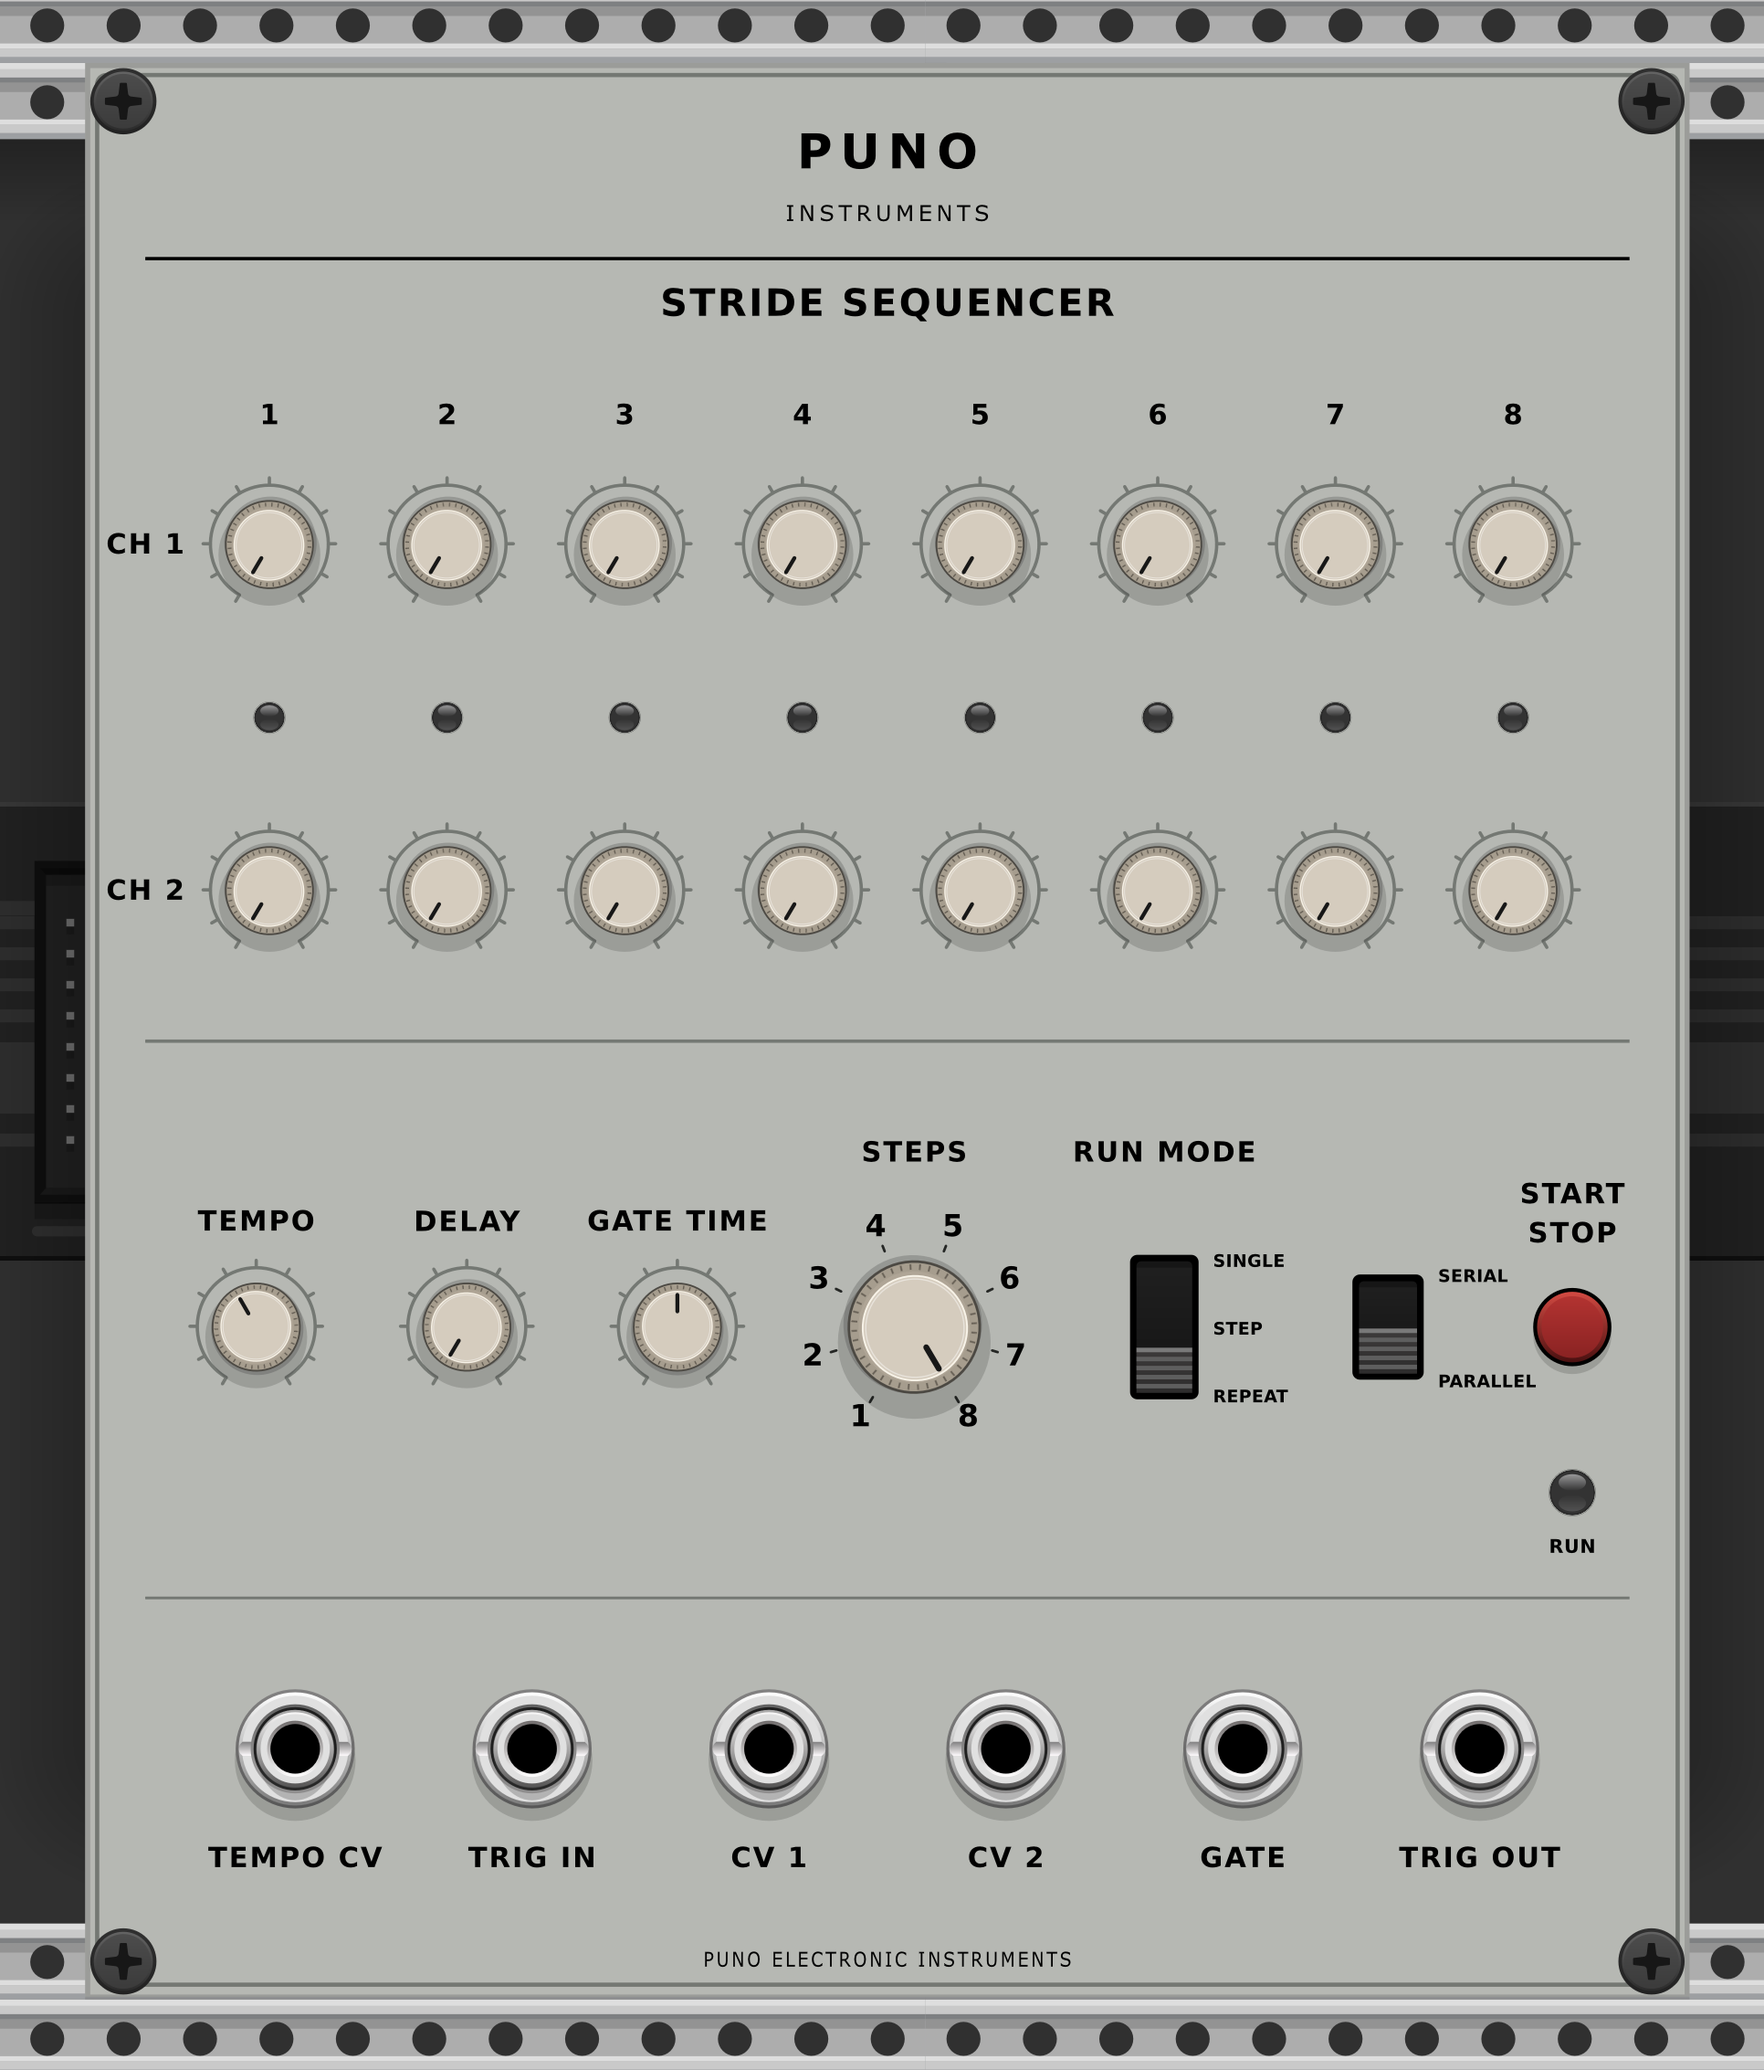
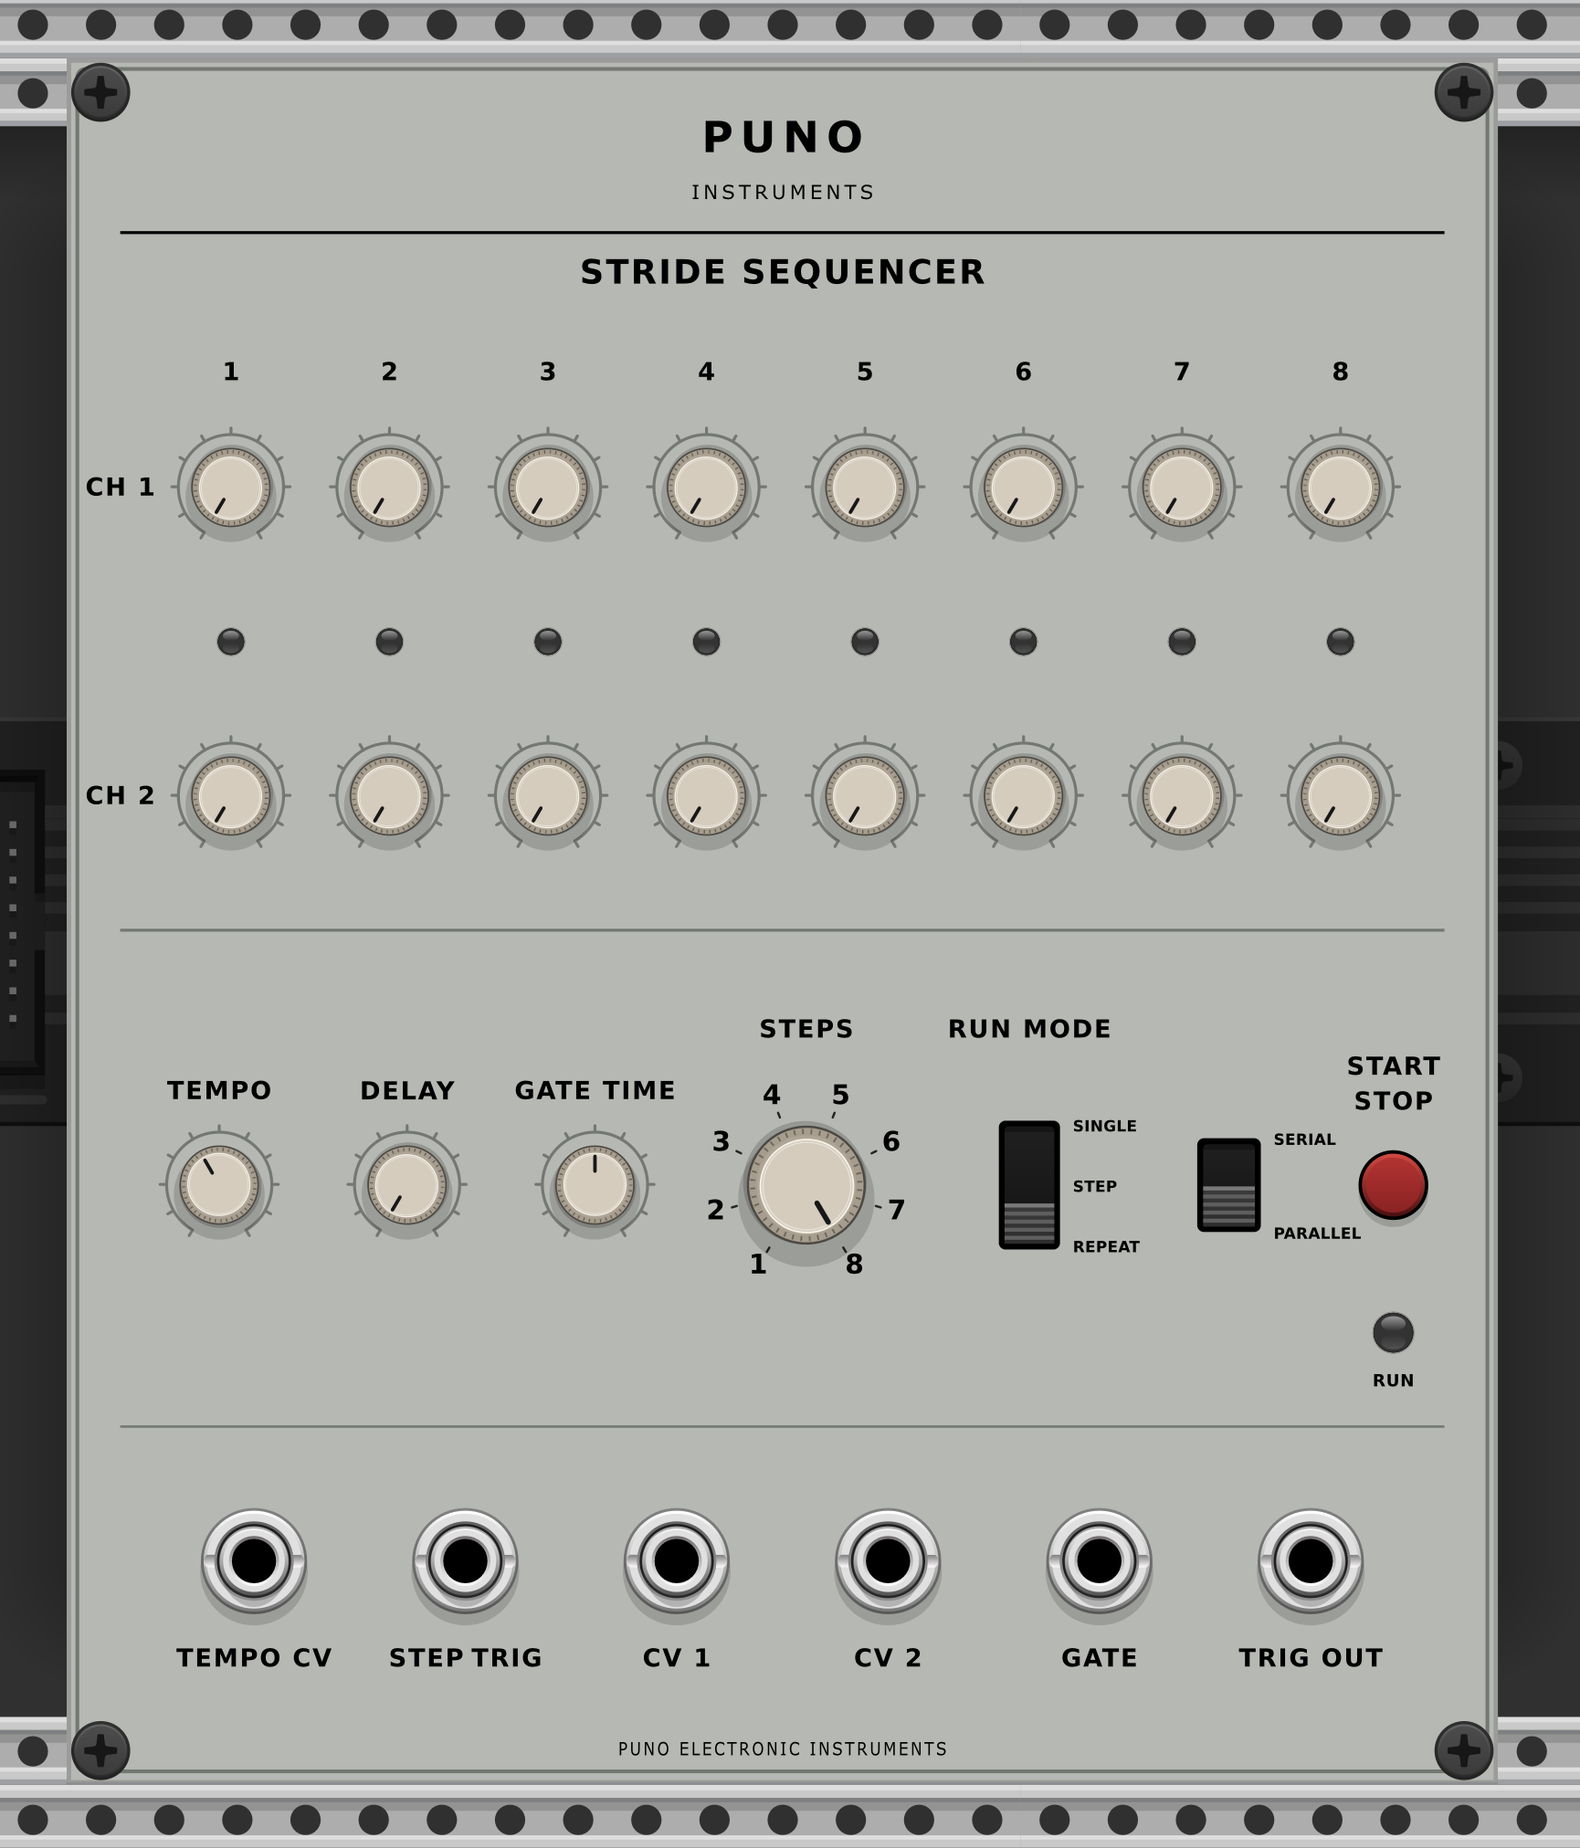
Update STRIDE sequencer manual for 2.0.1

diff --git a/index.html b/index.html
@@ -276,10 +276,10 @@
       <div class="module-layout">
         <div>
           <p>21 HP. Two-channel, eight-step sequencer with parallel and series configurations and a horizontal panel.</p>
-          <p>Repeat advances on the internal clock and loops at the end of the sequence. Step advances on edges at the external trigger input only while the sequencer is running. Single uses the internal clock and stops at the end of the sequence. Tempo sets the internal clock rate, which can be modulated at the Tempo CV input. Start/Stop stops a running sequence and starts a stopped sequence from the first step. Changing Repeat/Step/Single or Parallel/Series returns to the first step and resets the clock and end-of-sequence trigger while preserving the running or stopped state. Step values can be adjusted while the sequencer runs. Channel configuration, DELAY and TRIG OUT are described below.</p>
+          <p>Repeat advances on the internal clock and returns to the first step at the end of the sequence. In Step mode, after pressing START, each pulse at STEP TRIG advances the sequencer by one step. Single advances on the internal clock and stops at the end of the sequence. Repeat and Single use the internal clock even with a cable connected to STEP TRIG. On earlier panels, this input is labeled TRIG IN. Tempo sets the internal clock rate, which can be modulated at the Tempo CV input. Start/Stop stops a running sequence and starts a stopped sequence from the first step. Changing Repeat/Step/Single or Parallel/Series returns to the first step and resets the clock and end-of-sequence trigger while preserving the running or stopped state. Step values can be adjusted while the sequencer runs. Channel configuration, DELAY and TRIG OUT are described below.</p>
         </div>
         <img class="module-panel" src="assets/screenshots/stride-sequencer.png"
-             width="425" height="498" alt="STRIDE SEQUENCER module screenshot">
+             width="425" height="497" alt="STRIDE SEQUENCER module screenshot">
       </div>
     </section>
     <section id="tone-eq">
